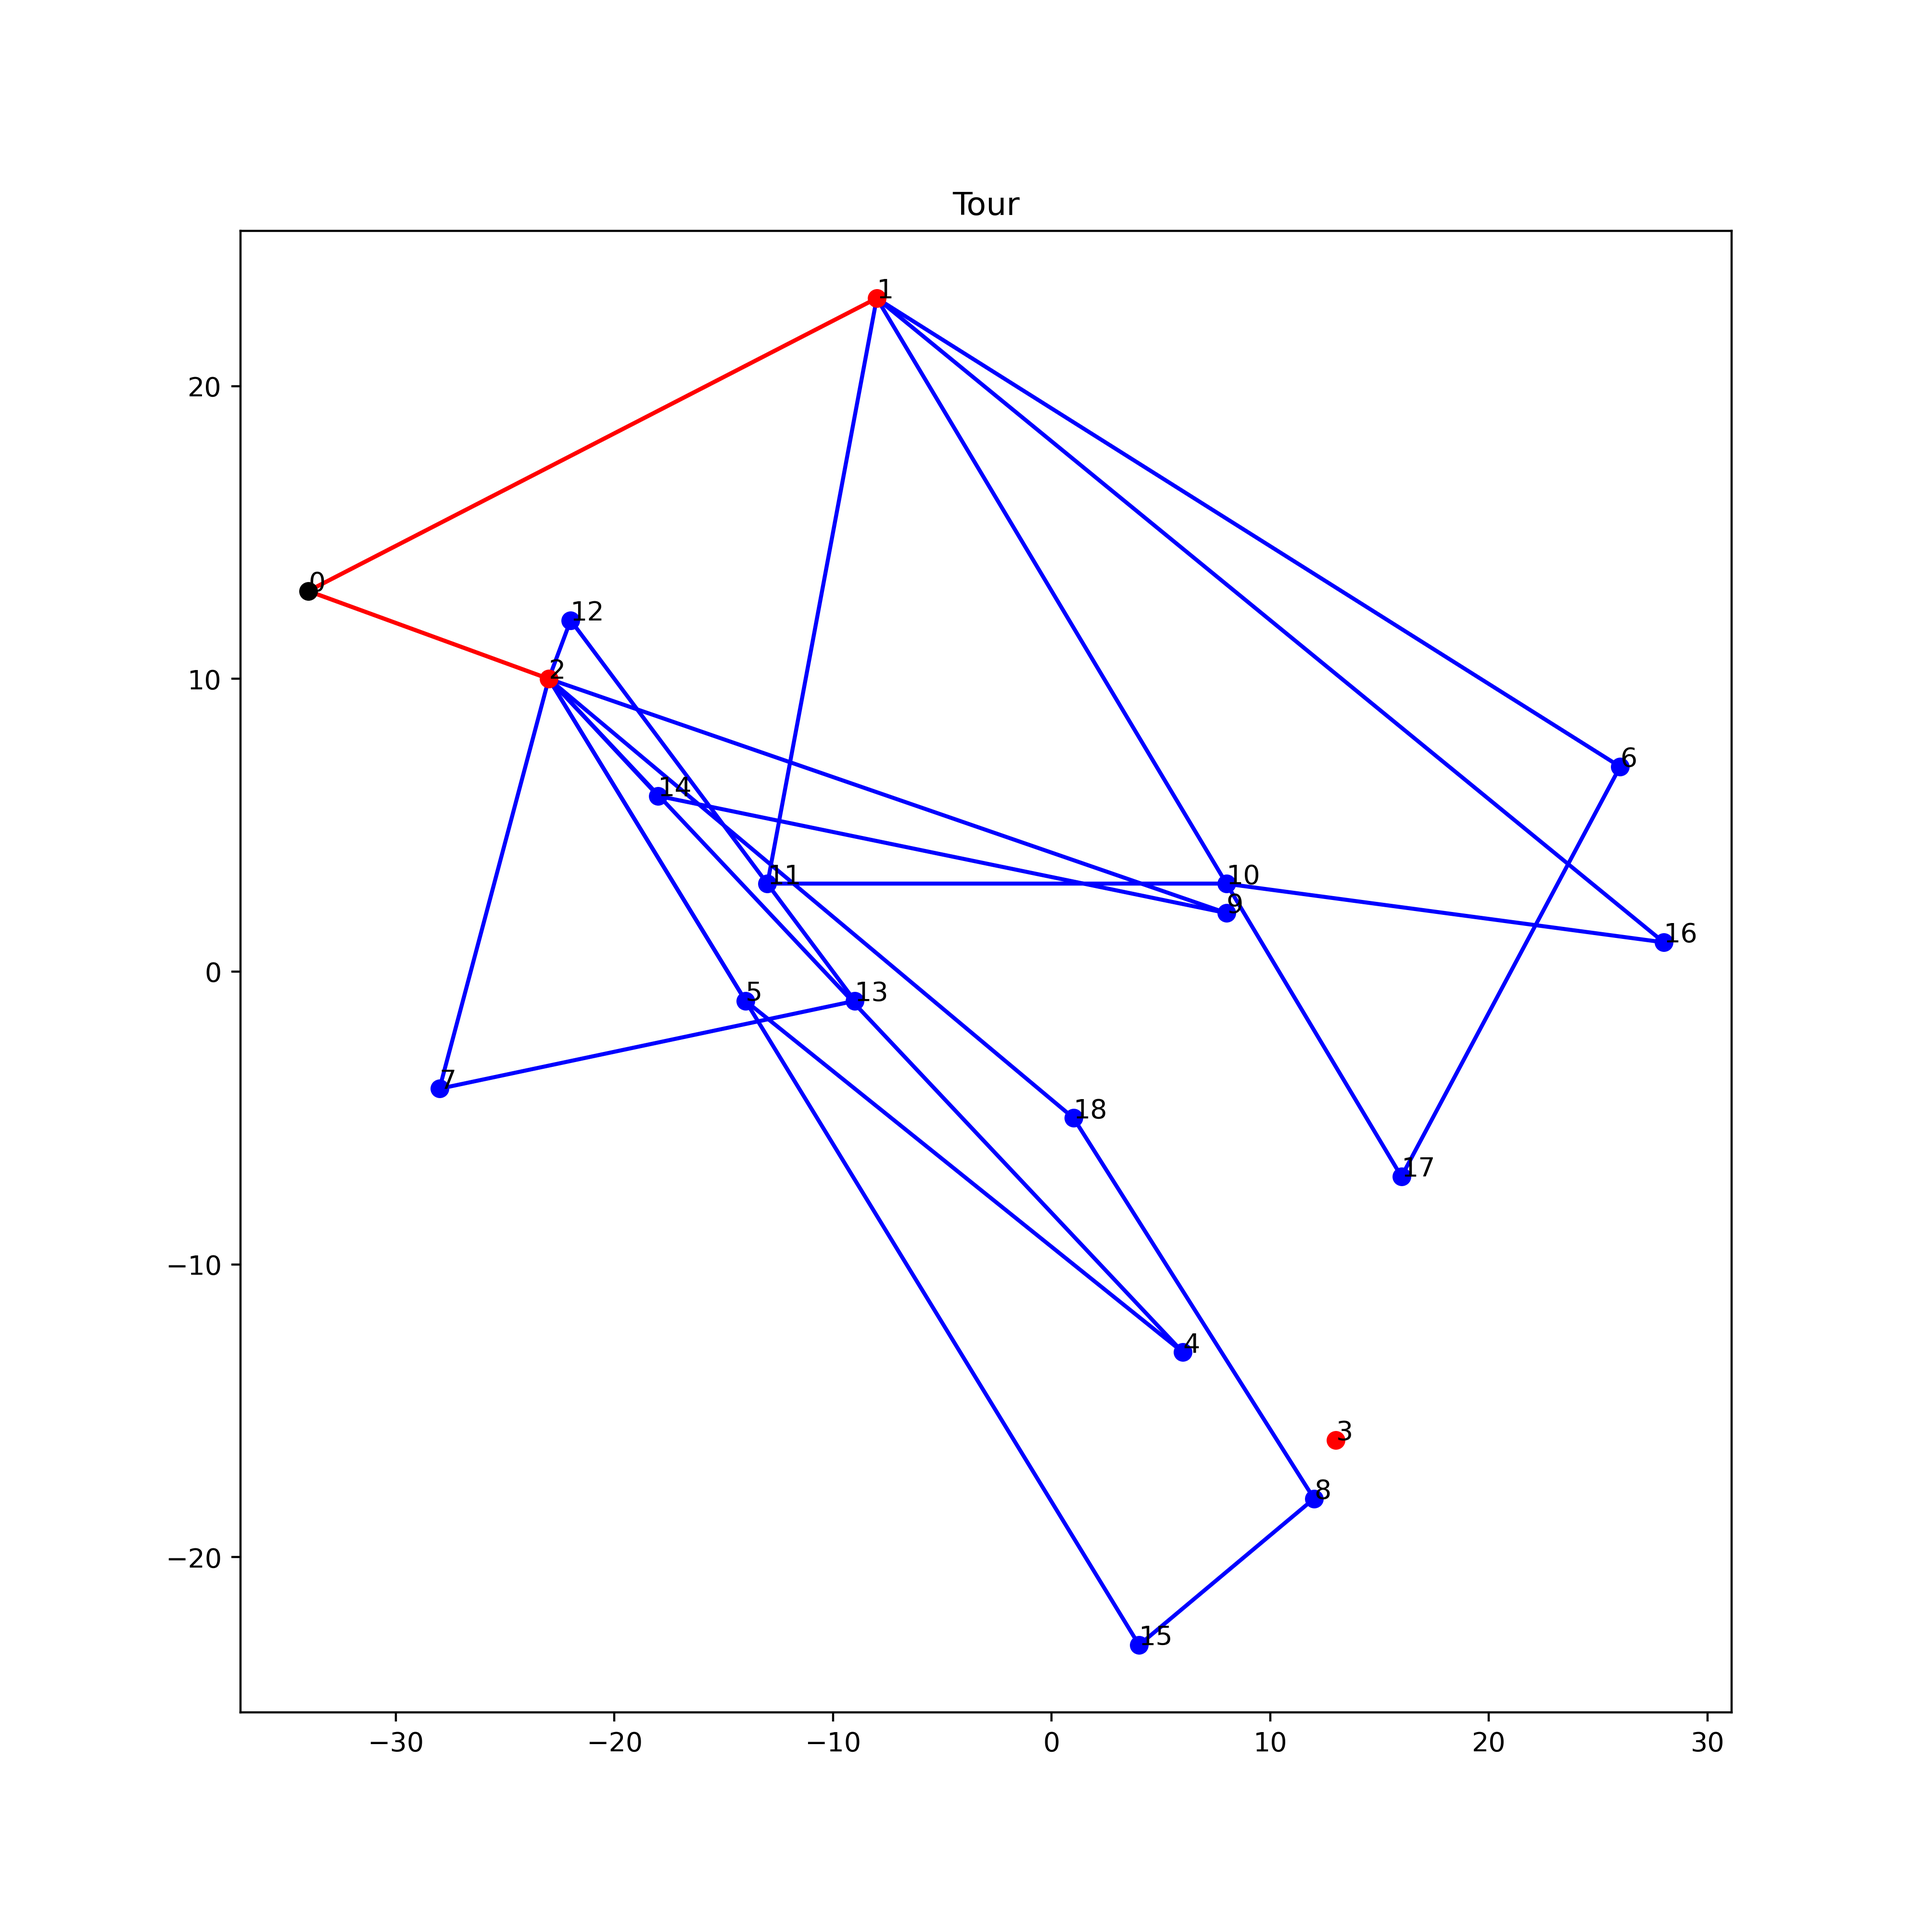
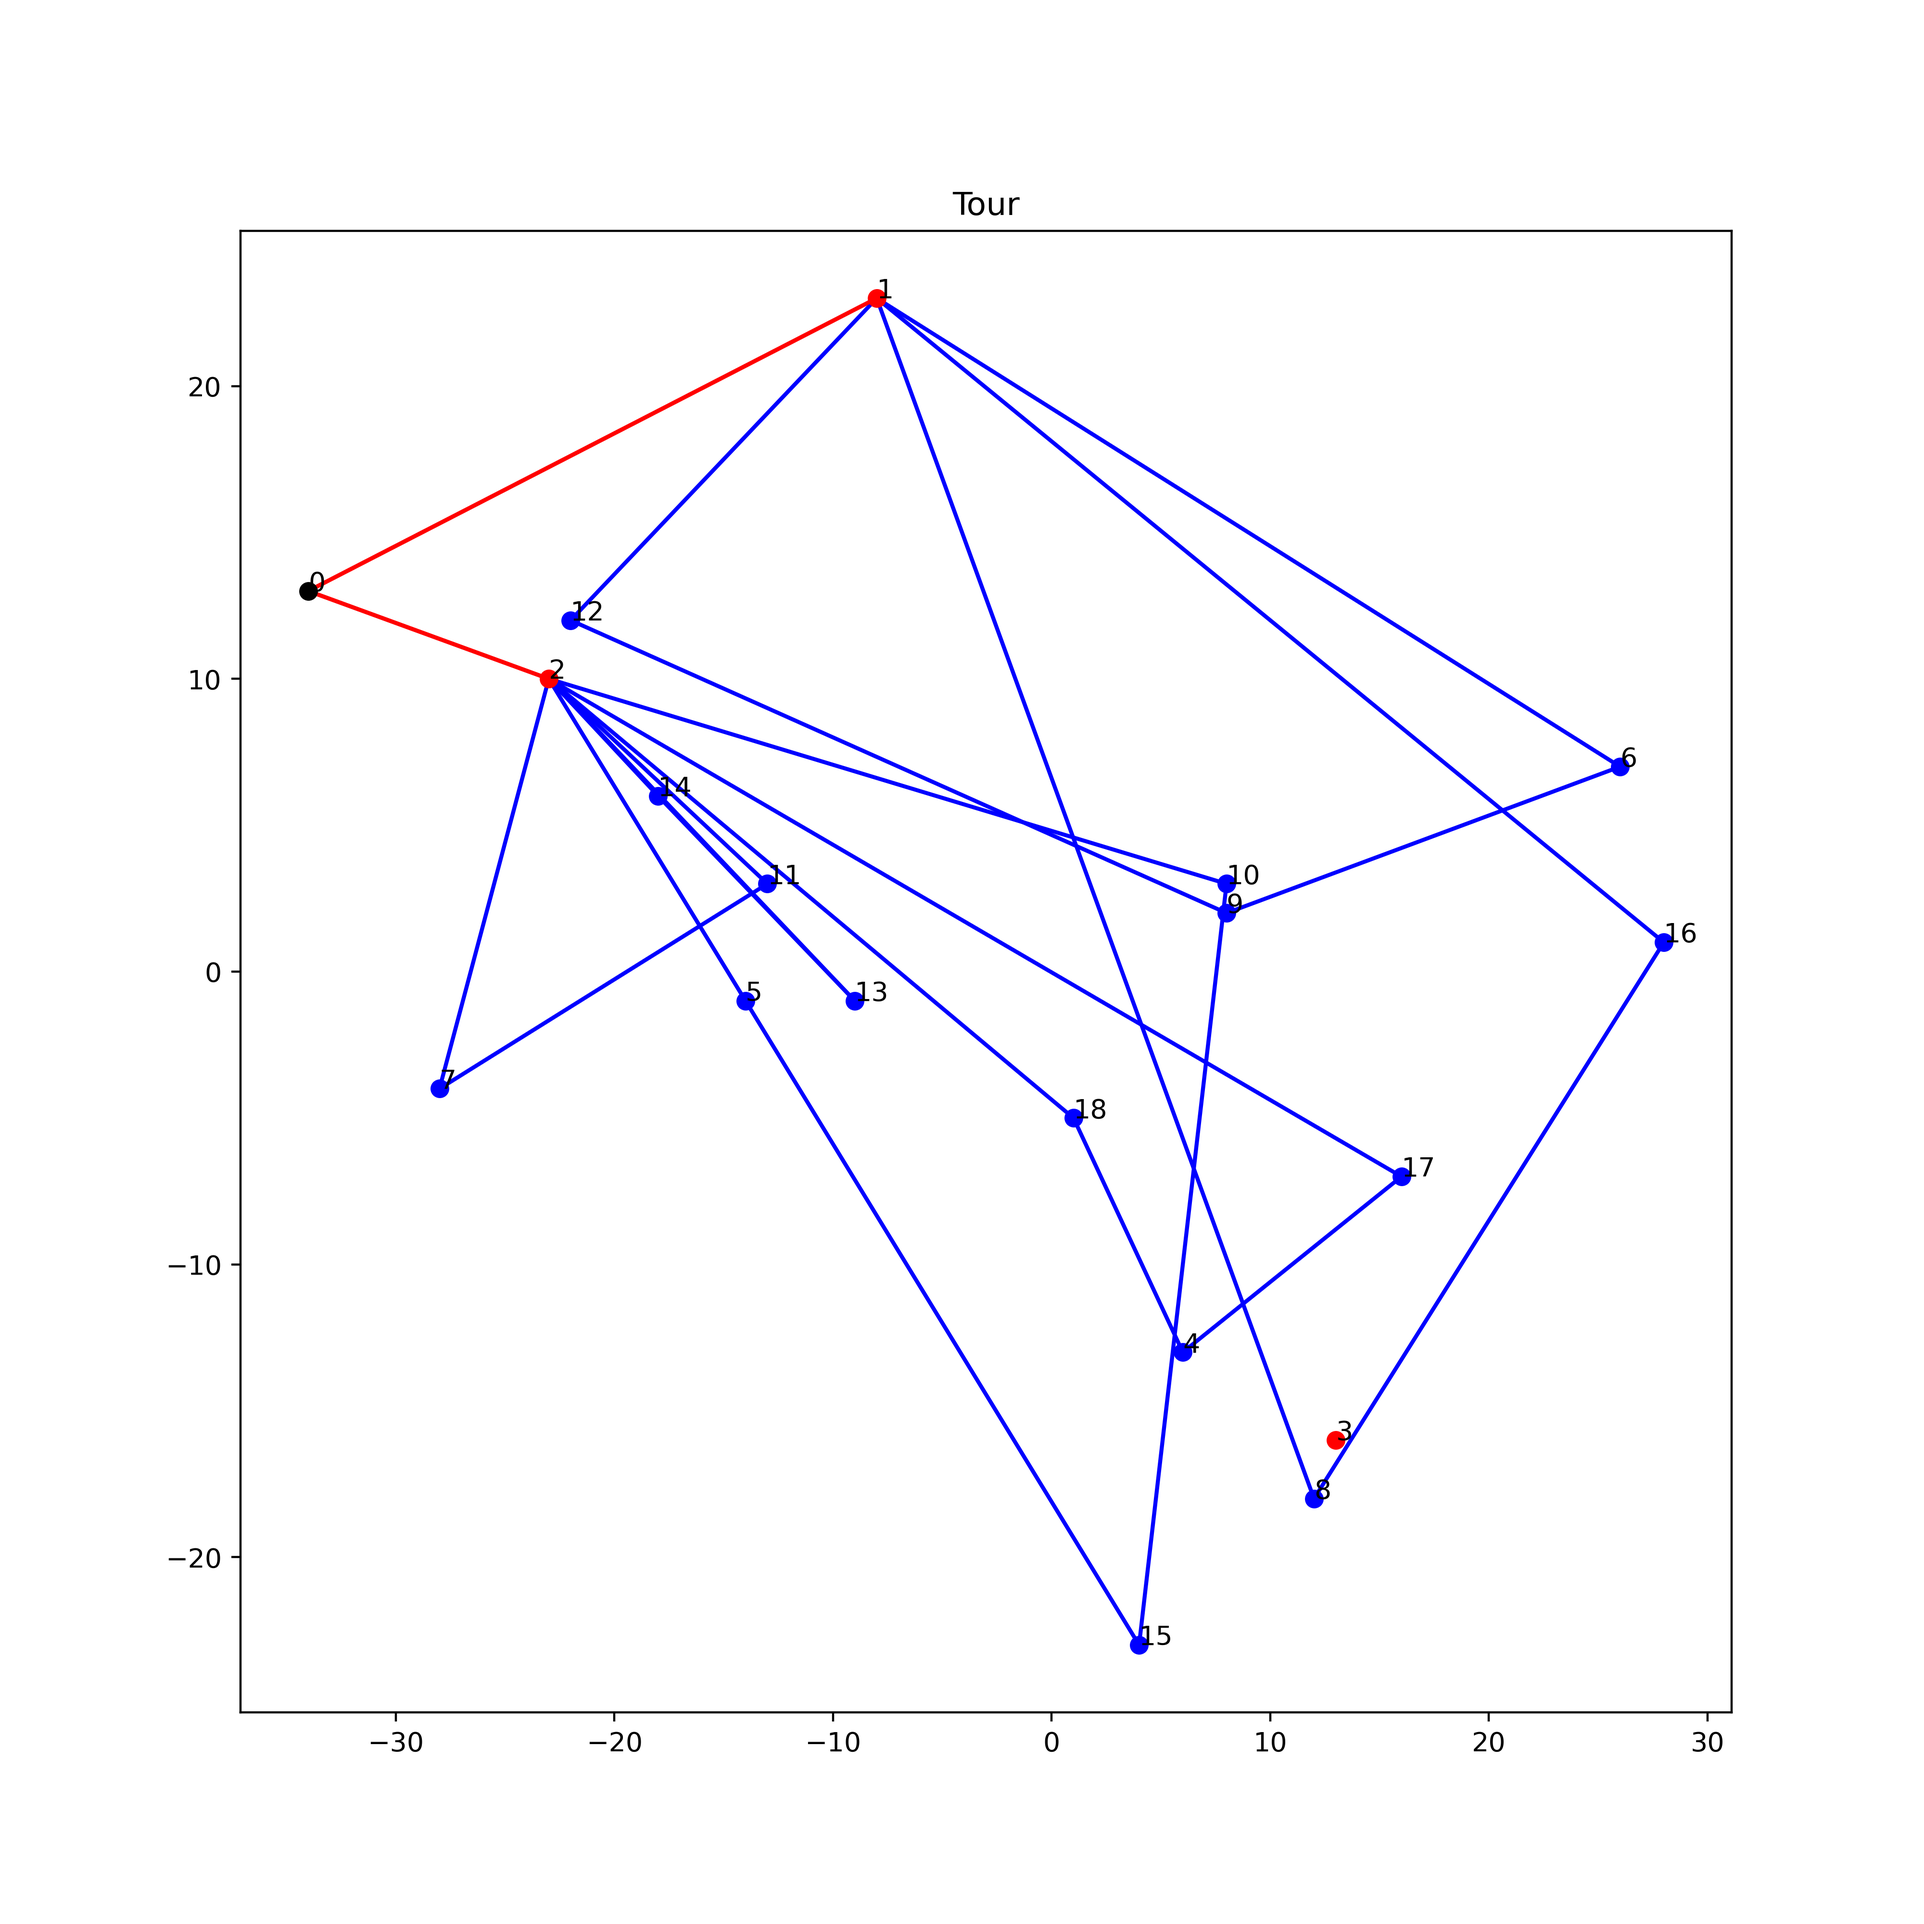
pertubation

diff --git a/ALNS.py b/ALNS.py
@@ -18,7 +18,7 @@ class Parameters:
     minSizeNBH = 1  # minimum neighborhood size
     maxSizeNBH = 20  # maximum neighborhood size
     randomSeed = 1  # value of the random seed
-    T = 1 # Temperature for Simulated Annealing
+    T = 10 # Temperature for Simulated Annealing
     Cool = 0.99 # Cooling rate
     # can add parameters such as cooling rate etc.
 
@@ -133,6 +133,7 @@ class ALNS:
             p = self.randomGen.random()
             Parameters.T = Parameters.Cool*Parameters.T
             if p < prob:
+                print("Toppie")
                 self.currentSolution = copy.deepcopy(self.tempSolution)
                 score = 1
                 return score
@@ -199,8 +200,10 @@ class ALNS:
             self.tempSolution.executeRandomRemoval(sizeNBH,self.randomGen, False)
         elif destroyHeuristicNr == 2:
             self.tempSolution.executeRelatedRemoval(sizeNBH,self.randomGen, False)
+        elif destroyHeuristicNr == 3:
+            self.tempSolution.executeWorstRemoval(sizeNBH,self.randomGen, False, False)
         else:
-            self.tempSolution.executeWorstRemoval(sizeNBH,self.randomGen, False)
+            self.tempSolution.executeWorstRemoval(sizeNBH, self.randomGen, False, True)
         tDestroy = time.perf_counter()-startTime_destroy
 
         #perform the repair

diff --git a/Solution.py b/Solution.py
@@ -162,7 +162,7 @@ class Solution:
                     continue
             self.removeLocation(k, firstEchelon, route)
 
-    def executeWorstRemoval(self, nRemove:int, random: Random, firstEchelon: bool):
+    def executeWorstRemoval(self, nRemove:int, random: Random, firstEchelon: bool, pertubation: bool):
         """
         Method that executes the worst removal of locations
 
@@ -198,6 +198,8 @@ class Solution:
             cost_without = Location.getDistance(from_loc,to_loc)
             avg_cost = cost_with/2 #To normalize the cost
             cost = (cost_with-cost_without)/avg_cost
+            if pertubation:
+                cost += cost*pow(random.random(),random.uniform(-0.2, 0.2))
             if cost < removing_max:
                 removing.append((cost, i, route))
                 if len(removing) > nRemove:

diff --git a/Main.py b/Main.py
@@ -7,7 +7,7 @@ from Problem import ProblemSet
 from Setup import instanceList
 
 if __name__ == "__main__":
-    nDestroyOps = 3
+    nDestroyOps = 4
     nRepairOps = 4
     problemSet = ProblemSet(instanceList)
     problemSet.runALNS(nDestroyOps, nRepairOps)
